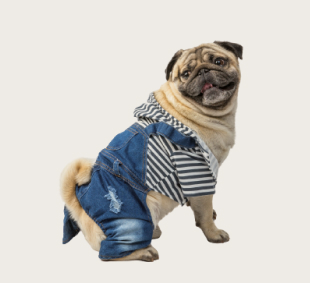
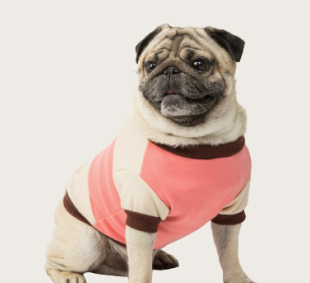
add home hoodie slider

diff --git a/public/css/home.css b/public/css/home.css
@@ -94,7 +94,6 @@
   background: #41403e;
 }
 
-
 /* categories section  */
 
 .categories {
@@ -134,4 +133,129 @@
 
 .category-item:hover span {
   color: #41403e;
+}
+
+/* hoodie section */
+
+.products-section {
+  max-width: 1420px;
+  margin: 60px auto;
+  padding: 0 20px;
+}
+
+.products-header {
+  display: flex;
+  justify-content: space-between;
+  margin-bottom: 30px;
+  padding: 0 60px;
+}
+
+.products-header h2 {
+  font-size: 36px;
+  font-weight: 400;
+  color: #41403e;
+}
+
+.products-slider-wrapper {
+  display: flex;
+  align-items: center;
+  gap: 10px;
+}
+
+.products-slider {
+  overflow-x: scroll;
+  display: flex;
+  gap: 20px;
+  scroll-behavior: smooth;
+  cursor: grab;
+}
+
+.products-slider::-webkit-scrollbar {
+  display: none;
+}
+
+.navigation {
+  width: 50px;
+  height: 50px;
+  border: 1px solid #41403e;
+  border-radius: 50%;
+  display: flex;
+  align-items: center;
+  justify-content: center;
+  cursor: pointer;
+  flex-shrink: 0;
+  color: #41403e;
+  font-size: 18px;
+  transition: all 0.1s ease-in;
+  align-self: flex-start;
+  margin-top: 140px;
+}
+
+.navigation:hover {
+  background: #41403e;
+  color: white;
+}
+
+.product-card {
+  width: 300px;
+  flex-shrink: 0;
+}
+
+.product-image {
+  position: relative;
+  background: #f0ede8;
+  border-radius: 12px;
+  height: 280px;
+  display: flex;
+  align-items: center;
+  justify-content: center;
+  margin-bottom: 15px;
+  overflow: hidden;
+}
+
+.product-image img {
+  width: 100%;
+  height: 100%;
+  object-fit: cover;
+}
+
+.product-card h3 {
+  font-size: 18px;
+  font-weight: 500;
+  color: #41403e;
+  margin-bottom: 6px;
+}
+
+.product-stars {
+  color: #dead6f;
+  font-size: 18px;
+  margin-bottom: 6px;
+}
+
+.product-stars span {
+  color: #dead6f;
+}
+
+.product-price {
+  color: #dead6f;
+  font-size: 20px;
+  font-weight: 600;
+  margin-bottom: 12px;
+}
+
+.btn-cart {
+  padding: 12px 24px;
+  border: 1px solid #41403e;
+  background: white;
+  color: #41403e;
+  font-size: 16px;
+  letter-spacing: 1px;
+  cursor: pointer;
+  border-radius: 3px;
+  transition: all 0.1s ease-in;
+}
+
+.btn-cart:hover {
+  background: #41403e;
+  color: white;
 }

diff --git a/public/js/home.js b/public/js/home.js
@@ -34,4 +34,49 @@ setInterval(() => {
 }, 3000)
 
 
+// hoodies slider
 
+const sliderElem = document.querySelector('.products-slider');
+const prevBtn = document.querySelector('.prev');
+const nextBtn = document.querySelector('.next');
+const productCards = document.querySelectorAll('.product-card');
+
+
+let productCardWidth = document.querySelector('.product-card').offsetWidth + 20;
+let totalItems = productCards.length;
+let visibleItems = Math.round(sliderElem.offsetWidth / productCardWidth);
+let maxIndex = totalItems - visibleItems;
+let currentIndex = 0;
+
+window.addEventListener('resize', function () {
+    productCardWidth = document.querySelector('.product-card').offsetWidth + 20;
+    visibleItems = Math.round(sliderElem.offsetWidth / productCardWidth);
+    maxIndex = totalItems - visibleItems;
+});
+
+
+nextBtn.addEventListener('click', () => {
+    currentIndex++;
+
+    if (currentIndex > maxIndex) {
+        currentIndex = 0;
+        sliderElem.scrollLeft = 0;
+    } else {
+        sliderElem.scrollLeft = productCardWidth * currentIndex;
+    }
+});
+
+prevBtn.addEventListener('click', () => {
+    currentIndex--;
+
+    if (currentIndex < 0) {
+        currentIndex = maxIndex;
+        sliderElem.scrollLeft = productCardWidth * maxIndex;
+    } else {
+        sliderElem.scrollLeft = productCardWidth * currentIndex;
+    }
+});
+
+sliderElem.addEventListener('scroll', () => {
+    currentIndex = Math.round(sliderElem.scrollLeft / productCardWidth);
+});

diff --git a/app/views/home/index.php b/app/views/home/index.php
@@ -1,7 +1,9 @@
 <?php
+
 $pageStyles = 'home';
 $pageScripts = 'home';
 require_once __DIR__ . '/../layouts/header.php';
+
 ?>
 
 
@@ -51,36 +53,79 @@ require_once __DIR__ . '/../layouts/header.php';
 
 <!-- categories start -->
 <section class="categories">
-  <div class="categories-container">
+    <div class="categories-container">
 
-    <div class="category-item">
-      <svg xmlns="http://www.w3.org/2000/svg" viewBox="0 0 256 256"><path fill="currentColor" d="M224 104h-8.37a88 88 0 0 0-175.26 0H32a8 8 0 0 0-8 8a104.35 104.35 0 0 0 56 92.28V208a16 16 0 0 0 16 16h64a16 16 0 0 0 16-16v-3.72A104.35 104.35 0 0 0 232 112a8 8 0 0 0-8-8m-24.46 0h-51.42a71.84 71.84 0 0 1 41.27-29.57A71.45 71.45 0 0 1 199.54 104m-26.06-47.77q2.75 2.25 5.27 4.75a87.92 87.92 0 0 0-49.15 43h-29.5A72.26 72.26 0 0 1 168 56c1.83 0 3.66.09 5.48.23M128 40a72 72 0 0 1 19 2.57A88.36 88.36 0 0 0 83.33 104H56.46A72.08 72.08 0 0 1 128 40m36.66 152a8 8 0 0 0-4.66 7.3v8.7H96v-8.7a8 8 0 0 0-4.66-7.3a88.29 88.29 0 0 1-51-72h175.29a88.29 88.29 0 0 1-50.97 72"></path></svg>
-      <span>Foodies</span>
+        <div class="category-item">
+            <svg xmlns="http://www.w3.org/2000/svg" viewBox="0 0 256 256">
+                <path fill="currentColor" d="M224 104h-8.37a88 88 0 0 0-175.26 0H32a8 8 0 0 0-8 8a104.35 104.35 0 0 0 56 92.28V208a16 16 0 0 0 16 16h64a16 16 0 0 0 16-16v-3.72A104.35 104.35 0 0 0 232 112a8 8 0 0 0-8-8m-24.46 0h-51.42a71.84 71.84 0 0 1 41.27-29.57A71.45 71.45 0 0 1 199.54 104m-26.06-47.77q2.75 2.25 5.27 4.75a87.92 87.92 0 0 0-49.15 43h-29.5A72.26 72.26 0 0 1 168 56c1.83 0 3.66.09 5.48.23M128 40a72 72 0 0 1 19 2.57A88.36 88.36 0 0 0 83.33 104H56.46A72.08 72.08 0 0 1 128 40m36.66 152a8 8 0 0 0-4.66 7.3v8.7H96v-8.7a8 8 0 0 0-4.66-7.3a88.29 88.29 0 0 1-51-72h175.29a88.29 88.29 0 0 1-50.97 72"></path>
+            </svg>
+            <span>Foodies</span>
+        </div>
+
+        <div class="category-item">
+            <svg xmlns="http://www.w3.org/2000/svg" viewBox="0 0 256 256">
+                <path fill="currentColor" d="M176 68a12 12 0 1 1-12-12a12 12 0 0 1 12 12m64 12a8 8 0 0 1-3.56 6.66L216 100.28V120a104.11 104.11 0 0 1-104 104H24a16 16 0 0 1-12.49-26l.1-.12L96 96.63V76.89c0-33.42 26.79-60.73 59.71-60.89h.29a60 60 0 0 1 57.21 41.86l23.23 15.48A8 8 0 0 1 240 80m-22.42 0L201.9 69.54a8 8 0 0 1-3.31-4.64A44 44 0 0 0 156 32h-.22C131.64 32.12 112 52.25 112 76.89v22.63a8 8 0 0 1-1.85 5.13L24 208h26.9l70.94-85.12a8 8 0 1 1 12.29 10.24L71.75 208H112a88.1 88.1 0 0 0 88-88V96a8 8 0 0 1 3.56-6.66Z"></path>
+            </svg>
+            <span>Bird Shop</span>
+        </div>
+
+        <div class="category-item">
+            <svg xmlns="http://www.w3.org/2000/svg" viewBox="0 0 256 256">
+                <path fill="currentColor" d="m239.71 125l-16.42-88a16 16 0 0 0-19.61-12.58l-.31.09L150.85 40h-45.7L52.63 24.56l-.31-.09a16 16 0 0 0-19.61 12.58L16.29 125a15.77 15.77 0 0 0 9.12 17.52a16.3 16.3 0 0 0 6.71 1.48a15.5 15.5 0 0 0 7.88-2.16V184a40 40 0 0 0 40 40h96a40 40 0 0 0 40-40v-42.15a15.5 15.5 0 0 0 7.87 2.16a16.3 16.3 0 0 0 6.72-1.47a15.77 15.77 0 0 0 9.12-17.54M32 128l16.43-88L90.5 52.37Zm144 80h-40v-12.69l13.66-13.65a8 8 0 0 0-11.32-11.32L128 180.69l-10.34-10.35a8 8 0 0 0-11.32 11.32L120 195.31V208H80a24 24 0 0 1-24-24v-60.89L107.92 56h40.15L200 123.11V184a24 24 0 0 1-24 24m48-80l-58.5-75.63L207.57 40zm-120 12a12 12 0 1 1-12-12a12 12 0 0 1 12 12m72 0a12 12 0 1 1-12-12a12 12 0 0 1 12 12"></path>
+            </svg>
+            <span>Dog Shop</span>
+        </div>
+
+        <div class="category-item">
+            <svg xmlns="http://www.w3.org/2000/svg" viewBox="0 0 256 256">
+                <path fill="currentColor" d="M168 76a12 12 0 1 1-12-12a12 12 0 0 1 12 12m48.72 67.64c-19.37 34.9-55.44 53.76-107.24 56.1l-22 51.41A8 8 0 0 1 80.1 256h-.51a8 8 0 0 1-7.19-5.78l-14.8-51.83l-51.8-14.83a8 8 0 0 1-1-15.05l51.41-22c2.35-51.78 21.21-87.84 56.09-107.22c24.75-13.74 52.74-15.84 71.88-15.18c18.64.64 36 4.27 38.86 6a8 8 0 0 1 2.83 2.83c1.69 2.85 5.33 20.21 6 38.85c.68 19.1-1.41 47.1-15.15 71.85m-55.18 29a52.11 52.11 0 0 1-33.4-44.78a52.09 52.09 0 0 1-44.77-33.39q-10.45 23.79-11.3 57.59a8 8 0 0 1-4.85 7.17l-35.39 15.14l34.45 9.86a8 8 0 0 1 5.49 5.5l9.84 34.44l15.16-35.4a8 8 0 0 1 7.17-4.84q33.77-.81 57.6-11.29m50.88-129.07c-14.15-3-64.1-11-100.3 14.75a81.2 81.2 0 0 0-16 15.07a36 36 0 0 0 39.35 38.44a8 8 0 0 1 8.73 8.73a36 36 0 0 0 38.47 39.34a80.8 80.8 0 0 0 15-16c25.75-36.17 17.75-86.16 14.75-100.33"></path>
+            </svg>
+            <span>Fish Shop</span>
+        </div>
+
+        <div class="category-item">
+            <svg xmlns="http://www.w3.org/2000/svg" viewBox="0 0 256 256">
+                <path fill="currentColor" d="M96 140a12 12 0 1 1-12-12a12 12 0 0 1 12 12m76-12a12 12 0 1 0 12 12a12 12 0 0 0-12-12m60-80v88c0 52.93-46.65 96-104 96S24 188.93 24 136V48a16 16 0 0 1 27.31-11.31c.14.14.26.27.38.41L69 57a111.22 111.22 0 0 1 118.1 0l17.21-19.9c.12-.14.24-.27.38-.41A16 16 0 0 1 232 48m-16 0l-21.56 24.8a8 8 0 0 1-10.81 1.2A89 89 0 0 0 168 64.75V88a8 8 0 1 1-16 0V59.05a97.4 97.4 0 0 0-16-2.72V88a8 8 0 1 1-16 0V56.33a97.4 97.4 0 0 0-16 2.72V88a8 8 0 1 1-16 0V64.75A89 89 0 0 0 72.37 74a8 8 0 0 1-10.81-1.17L40 48v88c0 41.66 35.21 76 80 79.67v-20.36l-13.66-13.66a8 8 0 0 1 11.32-11.31L128 180.68l10.34-10.34a8 8 0 0 1 11.32 11.31L136 195.31v20.36c44.79-3.69 80-38 80-79.67Z"></path>
+            </svg>
+            <span>Cat Shop</span>
+        </div>
+
     </div>
-
-    <div class="category-item">
-      <svg xmlns="http://www.w3.org/2000/svg" viewBox="0 0 256 256"><path fill="currentColor" d="M176 68a12 12 0 1 1-12-12a12 12 0 0 1 12 12m64 12a8 8 0 0 1-3.56 6.66L216 100.28V120a104.11 104.11 0 0 1-104 104H24a16 16 0 0 1-12.49-26l.1-.12L96 96.63V76.89c0-33.42 26.79-60.73 59.71-60.89h.29a60 60 0 0 1 57.21 41.86l23.23 15.48A8 8 0 0 1 240 80m-22.42 0L201.9 69.54a8 8 0 0 1-3.31-4.64A44 44 0 0 0 156 32h-.22C131.64 32.12 112 52.25 112 76.89v22.63a8 8 0 0 1-1.85 5.13L24 208h26.9l70.94-85.12a8 8 0 1 1 12.29 10.24L71.75 208H112a88.1 88.1 0 0 0 88-88V96a8 8 0 0 1 3.56-6.66Z"></path></svg>
-      <span>Bird Shop</span>
-    </div>
-
-    <div class="category-item">
-      <svg xmlns="http://www.w3.org/2000/svg" viewBox="0 0 256 256"><path fill="currentColor" d="m239.71 125l-16.42-88a16 16 0 0 0-19.61-12.58l-.31.09L150.85 40h-45.7L52.63 24.56l-.31-.09a16 16 0 0 0-19.61 12.58L16.29 125a15.77 15.77 0 0 0 9.12 17.52a16.3 16.3 0 0 0 6.71 1.48a15.5 15.5 0 0 0 7.88-2.16V184a40 40 0 0 0 40 40h96a40 40 0 0 0 40-40v-42.15a15.5 15.5 0 0 0 7.87 2.16a16.3 16.3 0 0 0 6.72-1.47a15.77 15.77 0 0 0 9.12-17.54M32 128l16.43-88L90.5 52.37Zm144 80h-40v-12.69l13.66-13.65a8 8 0 0 0-11.32-11.32L128 180.69l-10.34-10.35a8 8 0 0 0-11.32 11.32L120 195.31V208H80a24 24 0 0 1-24-24v-60.89L107.92 56h40.15L200 123.11V184a24 24 0 0 1-24 24m48-80l-58.5-75.63L207.57 40zm-120 12a12 12 0 1 1-12-12a12 12 0 0 1 12 12m72 0a12 12 0 1 1-12-12a12 12 0 0 1 12 12"></path></svg>
-      <span>Dog Shop</span>
-    </div>
-
-    <div class="category-item">
-      <svg xmlns="http://www.w3.org/2000/svg" viewBox="0 0 256 256"><path fill="currentColor" d="M168 76a12 12 0 1 1-12-12a12 12 0 0 1 12 12m48.72 67.64c-19.37 34.9-55.44 53.76-107.24 56.1l-22 51.41A8 8 0 0 1 80.1 256h-.51a8 8 0 0 1-7.19-5.78l-14.8-51.83l-51.8-14.83a8 8 0 0 1-1-15.05l51.41-22c2.35-51.78 21.21-87.84 56.09-107.22c24.75-13.74 52.74-15.84 71.88-15.18c18.64.64 36 4.27 38.86 6a8 8 0 0 1 2.83 2.83c1.69 2.85 5.33 20.21 6 38.85c.68 19.1-1.41 47.1-15.15 71.85m-55.18 29a52.11 52.11 0 0 1-33.4-44.78a52.09 52.09 0 0 1-44.77-33.39q-10.45 23.79-11.3 57.59a8 8 0 0 1-4.85 7.17l-35.39 15.14l34.45 9.86a8 8 0 0 1 5.49 5.5l9.84 34.44l15.16-35.4a8 8 0 0 1 7.17-4.84q33.77-.81 57.6-11.29m50.88-129.07c-14.15-3-64.1-11-100.3 14.75a81.2 81.2 0 0 0-16 15.07a36 36 0 0 0 39.35 38.44a8 8 0 0 1 8.73 8.73a36 36 0 0 0 38.47 39.34a80.8 80.8 0 0 0 15-16c25.75-36.17 17.75-86.16 14.75-100.33"></path></svg>
-      <span>Fish Shop</span>
-    </div>
-
-    <div class="category-item">
-      <svg xmlns="http://www.w3.org/2000/svg" viewBox="0 0 256 256"><path fill="currentColor" d="M96 140a12 12 0 1 1-12-12a12 12 0 0 1 12 12m76-12a12 12 0 1 0 12 12a12 12 0 0 0-12-12m60-80v88c0 52.93-46.65 96-104 96S24 188.93 24 136V48a16 16 0 0 1 27.31-11.31c.14.14.26.27.38.41L69 57a111.22 111.22 0 0 1 118.1 0l17.21-19.9c.12-.14.24-.27.38-.41A16 16 0 0 1 232 48m-16 0l-21.56 24.8a8 8 0 0 1-10.81 1.2A89 89 0 0 0 168 64.75V88a8 8 0 1 1-16 0V59.05a97.4 97.4 0 0 0-16-2.72V88a8 8 0 1 1-16 0V56.33a97.4 97.4 0 0 0-16 2.72V88a8 8 0 1 1-16 0V64.75A89 89 0 0 0 72.37 74a8 8 0 0 1-10.81-1.17L40 48v88c0 41.66 35.21 76 80 79.67v-20.36l-13.66-13.66a8 8 0 0 1 11.32-11.31L128 180.68l10.34-10.34a8 8 0 0 1 11.32 11.31L136 195.31v20.36c44.79-3.69 80-38 80-79.67Z"></path></svg>
-      <span>Cat Shop</span>
-    </div>
-
-  </div>
 </section>
 <!-- categories finish  -->
+
+<!-- hoodies start  -->
+<section class="products-section">
+    <div class="products-header">
+        <h2>Pet Clothing</h2>
+        <a href="#" class="btn-shop">SHOP NOW →</a>
+    </div>
+
+    <div class="products-slider-wrapper">
+        <div class="navigation prev">
+            <i class="fa-solid fa-arrow-left"></i>
+        </div>
+        <div class="products-slider">
+            <?php foreach ($clothing as $product): ?>
+                <div class="product-card">
+                    <div class="product-image">
+                        <img src="/waggy/public/images/<?= $product['image'] ?>" alt="<?= $product['name'] ?>">
+                    </div>
+                    <h3><?= $product['name'] ?></h3>
+                    <div class="product-stars">
+                        <span>★★★★★</span> 5.0
+                    </div>
+                    <p class="product-price">$<?= number_format($product['price'], 2) ?></p>
+                    <button class="btn-cart">ADD TO CART</button>
+                </div>
+            <?php endforeach; ?>
+        </div>
+        <div class="navigation next">
+            <i class="fa-solid fa-arrow-right"></i>
+        </div>
+    </div>
+</section>
+<!-- hoodies finish  -->
 
 
 

diff --git a/app/controllers/HomeController.php b/app/controllers/HomeController.php
@@ -3,11 +3,20 @@
 namespace App\Controllers;
 
 use Core\Controller;
+use App\Models\Product;
 
 class HomeController extends Controller
 {
     public function index()
     {
-        $this->view('home/index');
+        $product = new Product();
+
+        $clothing = $product->getByCategory(1);
+        $food = $product->getByCategory(2);
+
+        $this->view('home/index', [
+            'clothing' => $clothing,
+            'food' => $food
+        ]);
     }
 }

diff --git a/app/models/Product.php b/app/models/Product.php
@@ -1,0 +1,16 @@
+<?php
+
+namespace App\Models;
+
+use Core\Model;
+use PDO;
+
+class Product extends Model
+{
+    public function getByCategory($categoryId)
+    {
+        $stmt = $this->db->prepare('SELECT * FROM products WHERE category_id = :category_id');
+        $stmt->execute([':category_id' => $categoryId]);
+        return $stmt->fetchAll(PDO::FETCH_ASSOC);
+    }
+}

diff --git a/core/Model.php b/core/Model.php
@@ -18,7 +18,7 @@ class Model
                 DB_PASS
             );
 
-            //             With $this->db we can:
+            // With $this->db we can:
 
             // SELECT → get data from database
             // INSERT → add new data
